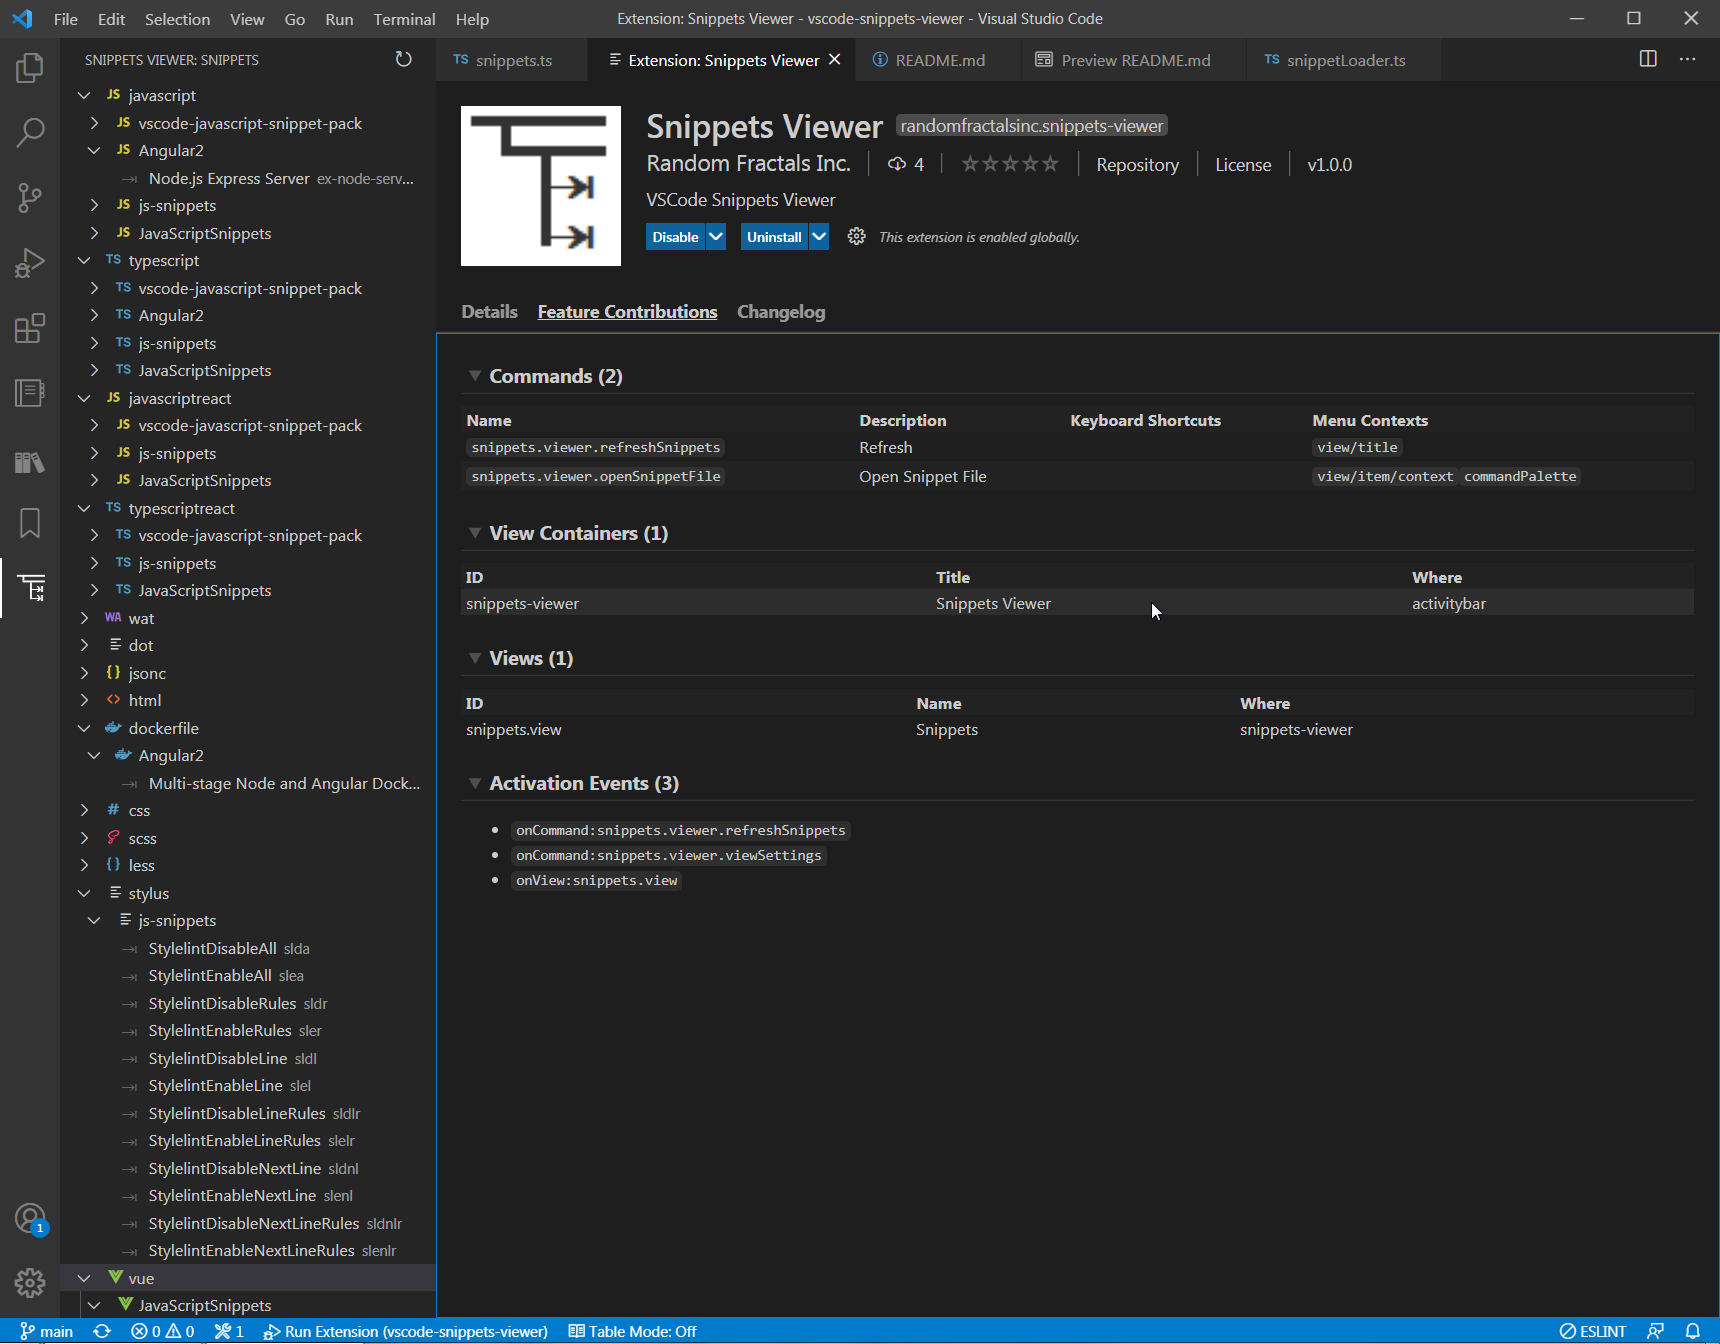
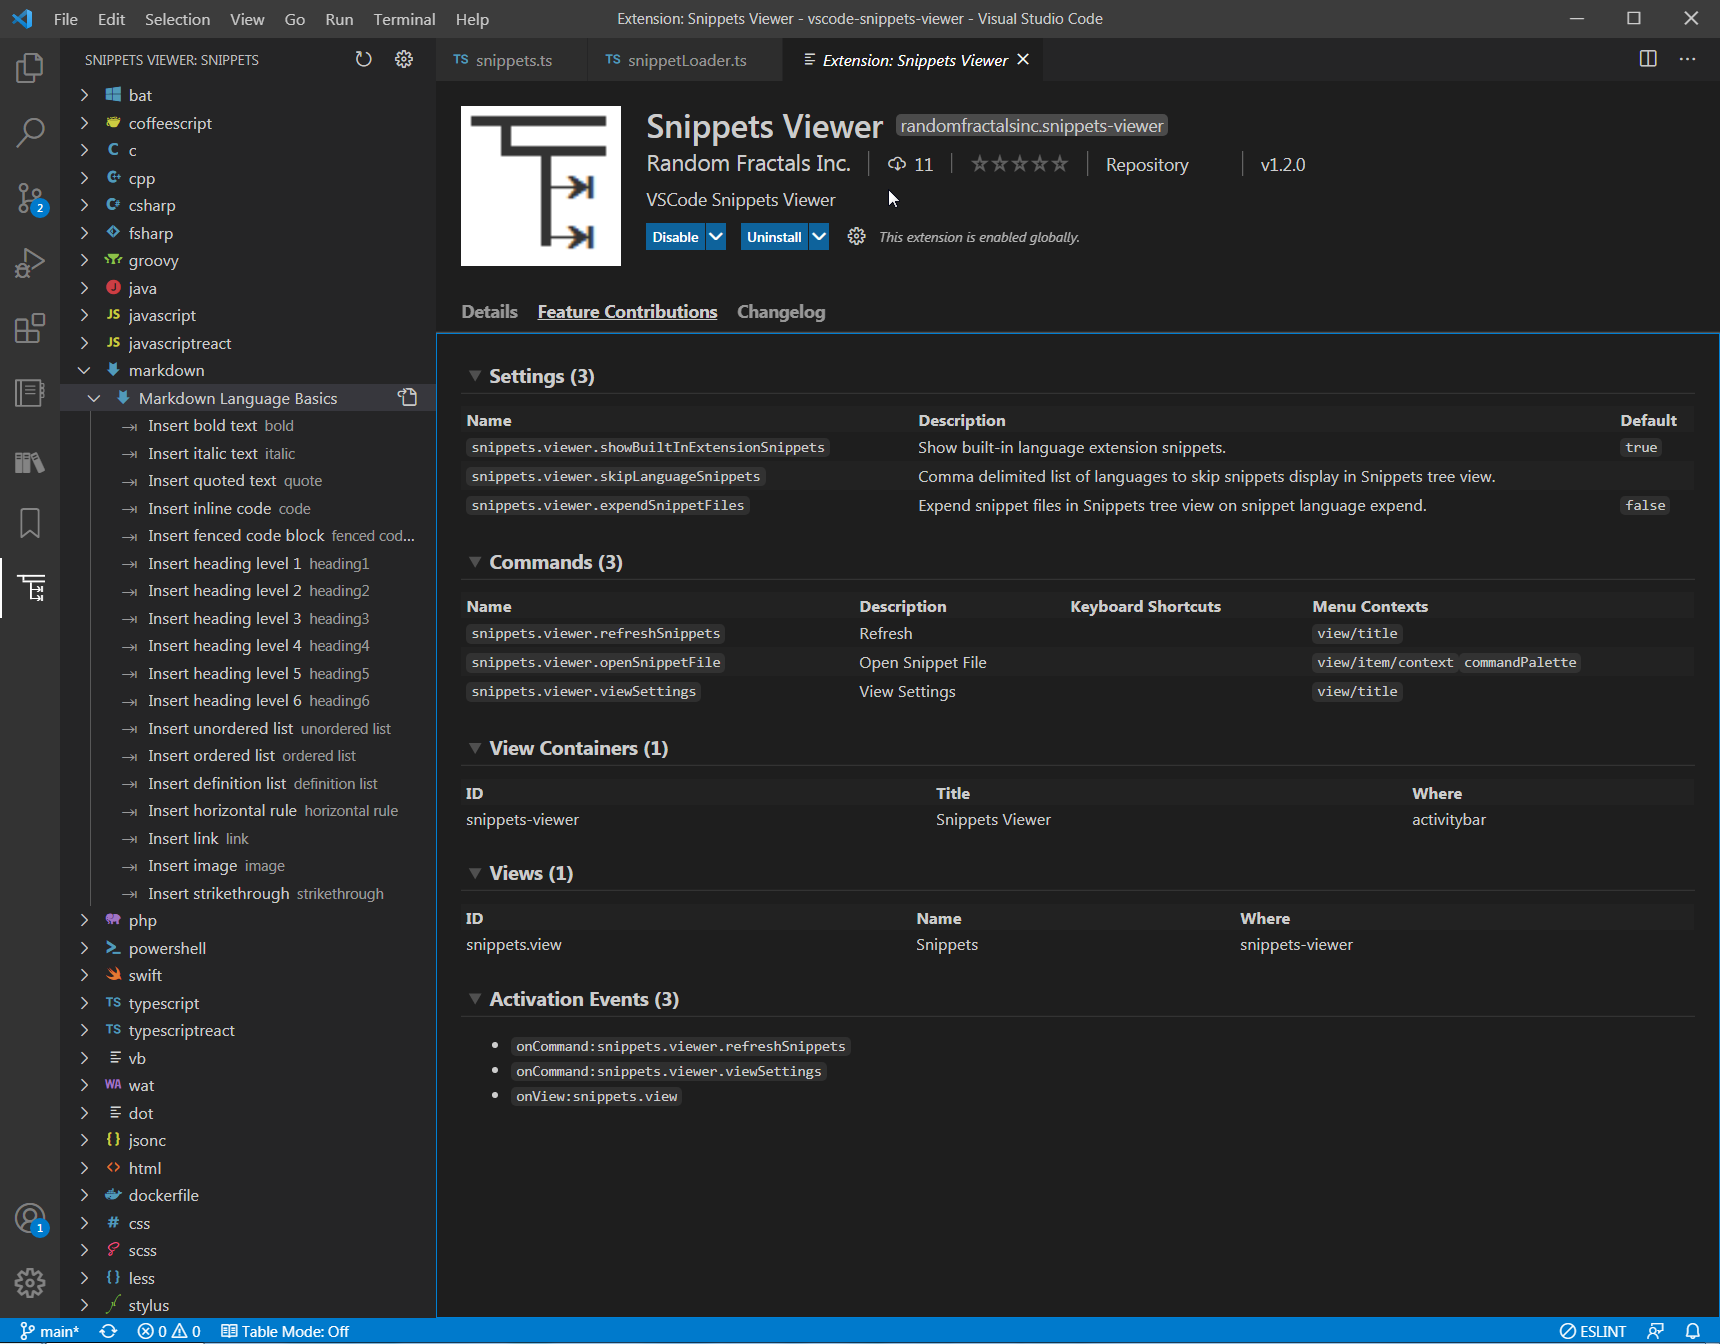
snippets viewer contribs pic and docs update for v1.2.0 release (#29)

diff --git a/README.md b/README.md
@@ -27,7 +27,7 @@ Extension Snippets Viewer ⇥ for VSCode
 
 # VSCode Contributions
 
-Snippets Viewer extension Commands and VSCode Views:
+Snippets Viewer extension Settings, Commands, and VSCode Views:
 
 ![Snippets Viewer VSCode Feature Contributions](https://raw.githubusercontent.com/RandomFractals/vscode-snippets-viewer/main/images/snippets-viewer-contributions.png)
 
